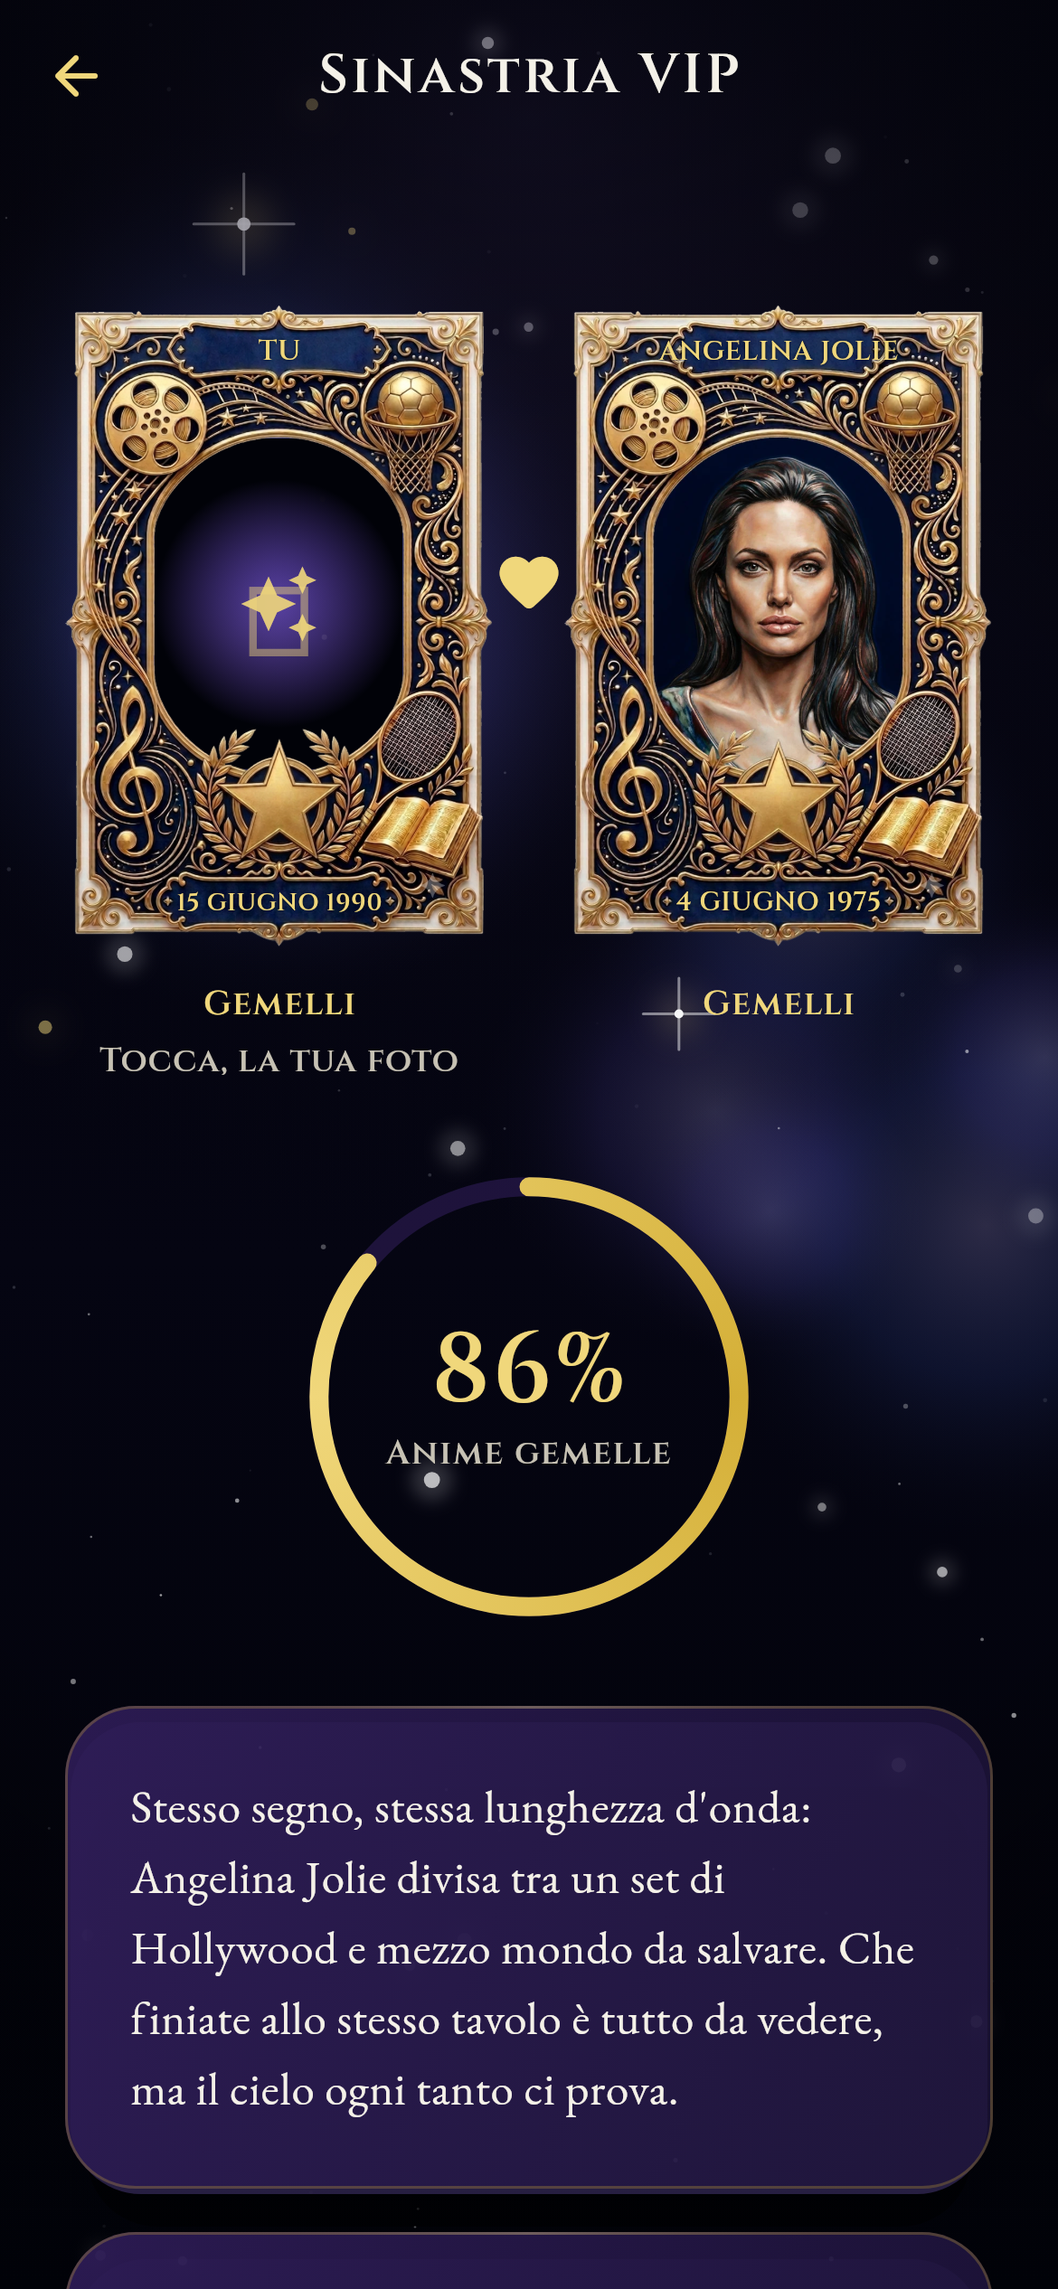
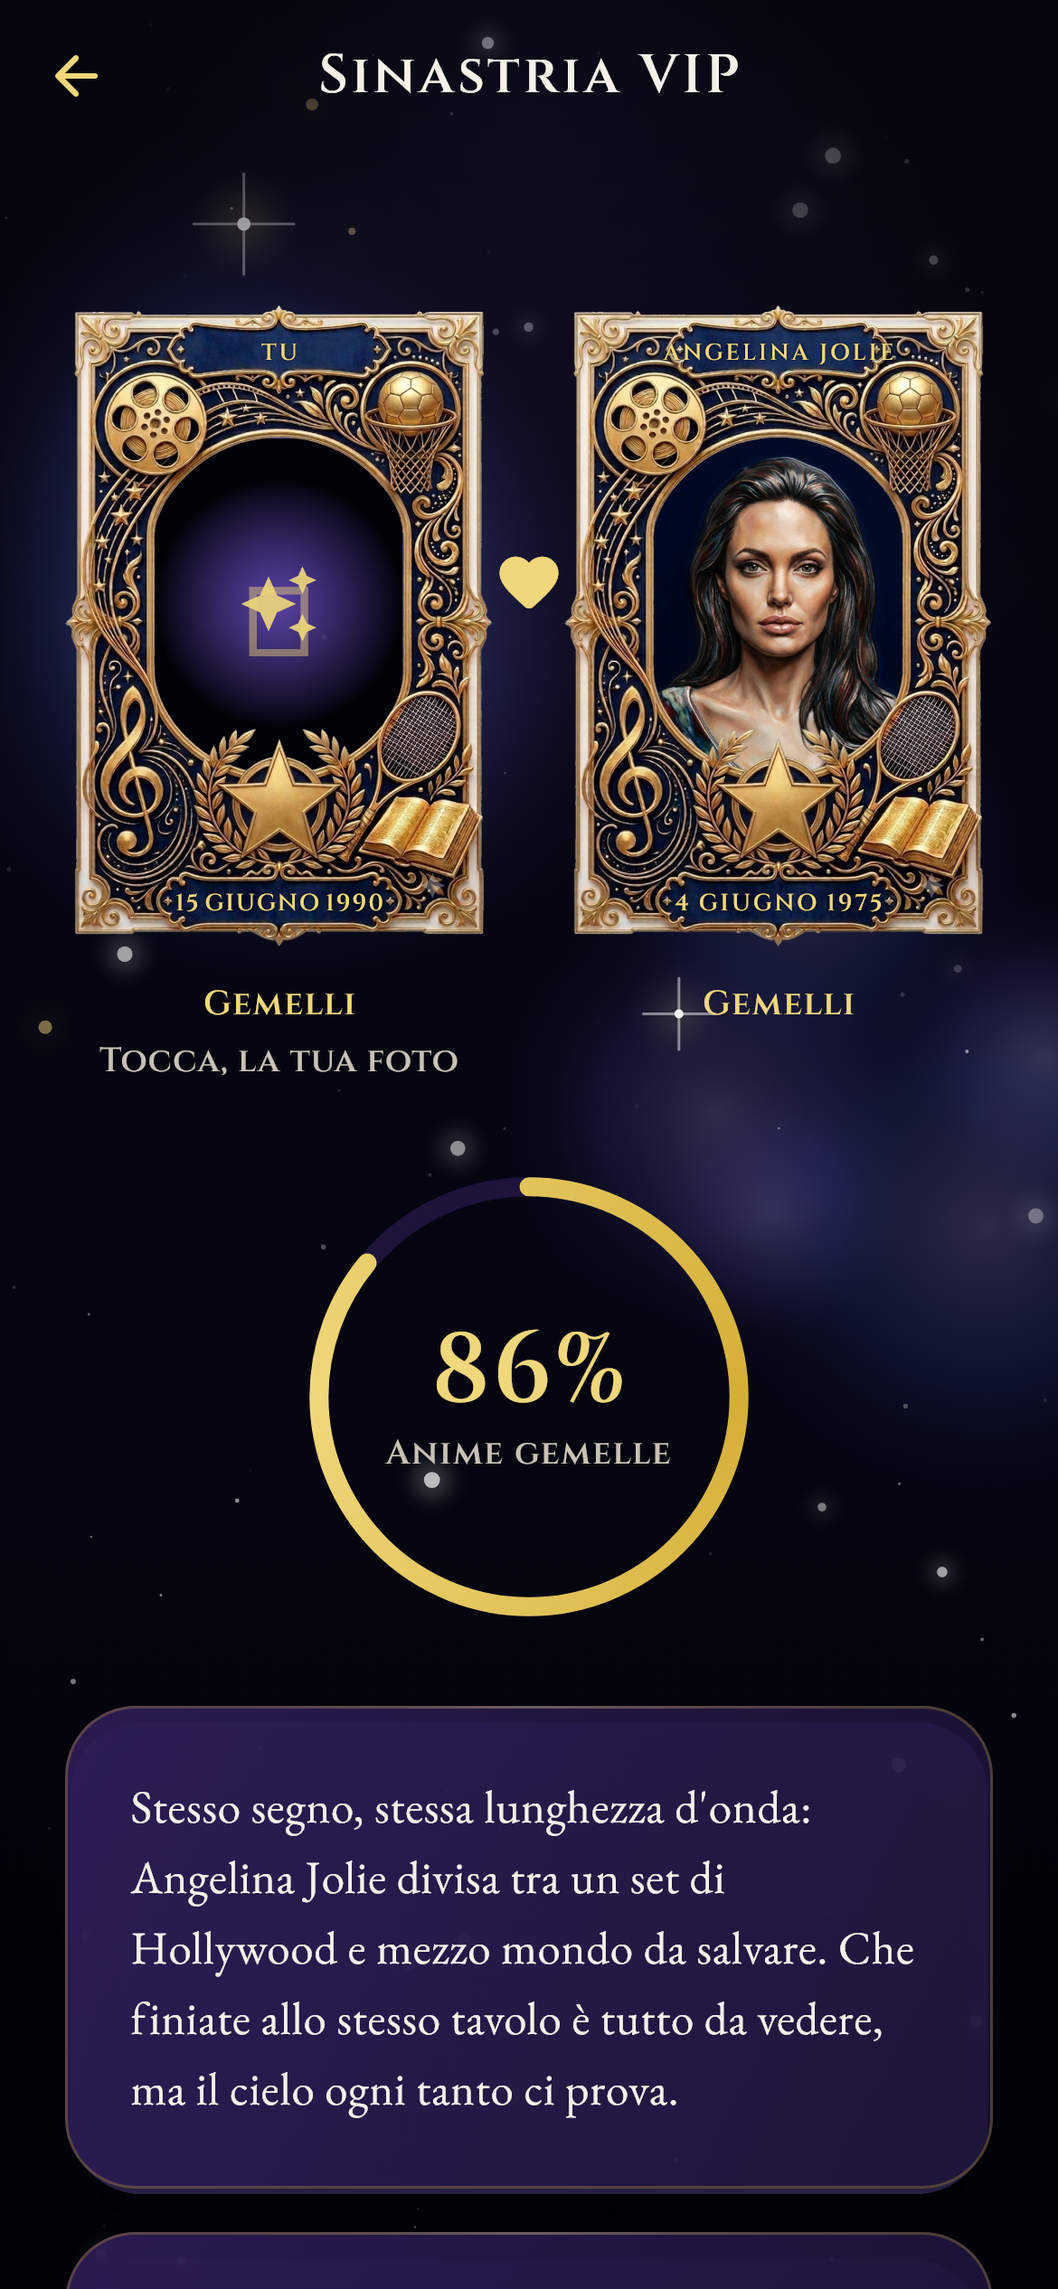
feat: testo dei cartigli VIP adattato alla banda con scala progressiva, sempre su una riga

diff --git a/lib/design_system/components/vip_frame.dart b/lib/design_system/components/vip_frame.dart
@@ -26,11 +26,12 @@ class VipFrame {
   /// normalizzati sull'alpha della cornice).
   static const Rect window = Rect.fromLTRB(0.2087, 0.2089, 0.7877, 0.7239);
 
-  /// Cartiglio alto, per il nome per esteso.
-  static const Rect cartiglioNome = Rect.fromLTRB(0.22, 0.048, 0.78, 0.100);
+  /// Cartiglio alto, per il nome per esteso. Larghezza presa dalla banda blu
+  /// piatta reale (x 0.162..0.821 nell'alpha), con un filo di margine interno.
+  static const Rect cartiglioNome = Rect.fromLTRB(0.185, 0.050, 0.815, 0.099);
 
-  /// Cartiglio basso, per la data di nascita.
-  static const Rect cartiglioData = Rect.fromLTRB(0.26, 0.905, 0.74, 0.958);
+  /// Cartiglio basso, per la data di nascita (banda x 0.249..0.742 reale).
+  static const Rect cartiglioData = Rect.fromLTRB(0.255, 0.906, 0.745, 0.956);
 }
 
 /// Un ritratto dentro la cornice VIP, col nome nel cartiglio alto e la data nel
@@ -107,16 +108,17 @@ class VipFramedPortrait extends StatelessWidget {
             ));
           }
 
-          // I cartigli, scritti a runtime: nome in alto, data in basso.
-          layers.add(_Cartiglio(
-              rect: px(VipFrame.cartiglioNome),
-              text: name,
-              palette: palette));
+          // I cartigli, scritti a runtime: nome in alto, data in basso. Il testo
+          // si adatta alla larghezza del cartiglio, sempre su una riga.
+          layers.add(Positioned.fromRect(
+            rect: px(VipFrame.cartiglioNome),
+            child: CartiglioText(text: name, palette: palette),
+          ));
           if (date.isNotEmpty) {
-            layers.add(_Cartiglio(
-                rect: px(VipFrame.cartiglioData),
-                text: date,
-                palette: palette));
+            layers.add(Positioned.fromRect(
+              rect: px(VipFrame.cartiglioData),
+              child: CartiglioText(text: date, palette: palette),
+            ));
           }
 
           return Stack(fit: StackFit.expand, children: layers);
@@ -126,34 +128,179 @@ class VipFramedPortrait extends StatelessWidget {
   }
 }
 
-class _Cartiglio extends StatelessWidget {
-  const _Cartiglio(
-      {required this.rect, required this.text, required this.palette});
+/// I parametri di adattamento del testo del cartiglio: dimensione del font,
+/// spazio tra le lettere, spazio tra le parole e restringimento orizzontale.
+class CartiglioFit {
+  const CartiglioFit({
+    required this.fontSize,
+    required this.letterSpacing,
+    required this.wordSpacing,
+    required this.scaleX,
+  });
 
-  final Rect rect;
+  final double fontSize;
+  final double letterSpacing;
+  final double wordSpacing;
+  final double scaleX;
+}
+
+/// Limiti della scala progressiva, nell'ordine richiesto.
+const double _lsBase = 1.0; // spazio tra le lettere di partenza
+const double _lsMin = -1.0; // fino a circa -1,0
+const double _xsMin = 0.80; // restringimento orizzontale minimo
+const double _fontFloor = 0.85; // il font puo' calare al massimo del 15 per cento
+const double _heightFactor = 0.86; // quanto il font riempie l'altezza del cartiglio
+double _wsMin(double fs) => -fs * 0.16; // spazio tra le parole minimo
+
+double _measureWidth(String t, TextStyle base, double fs, double ls, double ws) {
+  final tp = TextPainter(
+    text: TextSpan(
+        text: t,
+        style: base.copyWith(fontSize: fs, letterSpacing: ls, wordSpacing: ws)),
+    textDirection: TextDirection.ltr,
+    maxLines: 1,
+  )..layout();
+  return tp.width;
+}
+
+double _measureHeight(String t, TextStyle base, double fs) {
+  final tp = TextPainter(
+    text: TextSpan(text: t, style: base.copyWith(fontSize: fs)),
+    textDirection: TextDirection.ltr,
+    maxLines: 1,
+  )..layout();
+  return tp.height;
+}
+
+// Cerca il valore meno compresso (piu' vicino a hi) che fa stare il testo entro
+// target. Se nemmeno la compressione piena (lo) basta, ritorna lo e si passa
+// allo stadio successivo. La larghezza cresce in modo monotono col parametro.
+double _leastCompression(
+    double Function(double) widthOf, double target, double lo, double hi) {
+  if (widthOf(lo) > target) return lo;
+  if (widthOf(hi) <= target) return hi;
+  for (var i = 0; i < 30; i++) {
+    final mid = (lo + hi) / 2;
+    if (widthOf(mid) <= target) {
+      lo = mid;
+    } else {
+      hi = mid;
+    }
+  }
+  return lo;
+}
+
+/// Calcola come far entrare [text] (gia' maiuscolo) nella larghezza [maxWidth],
+/// alto quanto [maxHeight], su una sola riga. Applica solo lo stretto necessario,
+/// nell'ordine: spazio tra le parole, spazio tra le lettere, larghezza dei
+/// caratteri, e solo come estremo la dimensione del font (fino al 15 per cento).
+CartiglioFit resolveCartiglioFit({
+  required String text,
+  required TextStyle base,
+  required double maxWidth,
+  required double maxHeight,
+}) {
+  // Font di partenza: riempie l'altezza del cartiglio.
+  const probe = 100.0;
+  final probeHeight = _measureHeight(text, base, probe);
+  final baseFont = probeHeight <= 0
+      ? maxHeight
+      : probe * (maxHeight * _heightFactor) / probeHeight;
+
+  var fs = baseFont;
+  var ls = _lsBase;
+  var ws = 0.0;
+  var xs = 1.0;
+
+  double widthNow() => _measureWidth(text, base, fs, ls, ws);
+  final hasSpace = text.contains(' ');
+
+  // 1) spazio tra le parole.
+  if (widthNow() > maxWidth && hasSpace) {
+    ws = _leastCompression(
+        (v) => _measureWidth(text, base, fs, ls, v), maxWidth, _wsMin(fs), 0.0);
+  }
+  // 2) spazio tra le lettere.
+  if (widthNow() > maxWidth) {
+    ls = _leastCompression(
+        (v) => _measureWidth(text, base, fs, v, ws), maxWidth, _lsMin, _lsBase);
+  }
+  // 3) larghezza dei caratteri.
+  final w = widthNow();
+  if (w > maxWidth) {
+    xs = (maxWidth / w).clamp(_xsMin, 1.0);
+  }
+  // 4) come estremo, la dimensione del font, al massimo meno 15 per cento.
+  if (widthNow() * xs > maxWidth) {
+    final floor = baseFont * _fontFloor;
+    fs = _leastCompression(
+        (v) => _measureWidth(text, base, v, ls, ws) * xs, maxWidth, floor, fs);
+  }
+
+  return CartiglioFit(
+      fontSize: fs, letterSpacing: ls, wordSpacing: ws, scaleX: xs);
+}
+
+/// Testo di un cartiglio VIP: maiuscolo, oro, centrato, sempre su una riga.
+///
+/// Non tronca mai, non va a capo, non sborda: adatta il testo alla larghezza del
+/// cartiglio con la scala progressiva di [resolveCartiglioFit], applicando solo
+/// lo stretto necessario. La cornice e il cartiglio restano quelli veri.
+class CartiglioText extends StatelessWidget {
+  const CartiglioText({super.key, required this.text, required this.palette});
+
   final String text;
   final MaestroPalette palette;
 
   @override
   Widget build(BuildContext context) {
-    return Positioned.fromRect(
-      rect: rect,
-      child: Center(
-        child: FittedBox(
-          fit: BoxFit.scaleDown,
-          child: Text(
-            text.toUpperCase(),
-            maxLines: 1,
-            style: TypographyTokens.display(size: 40).copyWith(
-              color: palette.goldSoft,
-              letterSpacing: 1.0,
-              shadows: [
-                Shadow(color: palette.deepest, blurRadius: 2),
-              ],
-            ),
+    final upper = text.toUpperCase();
+    final base = TypographyTokens.display(size: 40).copyWith(
+      color: palette.goldSoft,
+      letterSpacing: _lsBase,
+      shadows: [Shadow(color: palette.deepest, blurRadius: 2)],
+    );
+
+    return LayoutBuilder(
+      builder: (context, constraints) {
+        final fit = resolveCartiglioFit(
+          text: upper,
+          base: base,
+          maxWidth: constraints.maxWidth,
+          maxHeight: constraints.maxHeight,
+        );
+
+        Widget label = Text(
+          upper,
+          maxLines: 1,
+          softWrap: false,
+          overflow: TextOverflow.visible,
+          textAlign: TextAlign.center,
+          style: base.copyWith(
+            fontSize: fit.fontSize,
+            letterSpacing: fit.letterSpacing,
+            wordSpacing: fit.wordSpacing,
           ),
-        ),
-      ),
+        );
+        if (fit.scaleX < 0.999) {
+          label = Transform.scale(
+            scaleX: fit.scaleX,
+            scaleY: 1.0,
+            alignment: Alignment.center,
+            child: label,
+          );
+        }
+        // OverflowBox: il testo puo' essere piu' largo del vincolo interno, tanto
+        // lo comprimiamo noi con lo scaleX; cosi' non va mai a capo ne tronca.
+        return Center(
+          child: OverflowBox(
+            minWidth: 0,
+            maxWidth: double.infinity,
+            alignment: Alignment.center,
+            child: label,
+          ),
+        );
+      },
     );
   }
 }

diff --git a/test/cartiglio_fit_test.dart b/test/cartiglio_fit_test.dart
@@ -1,0 +1,114 @@
+import 'dart:io';
+
+import 'package:esoteric_circle/design_system/components/vip_frame.dart';
+import 'package:esoteric_circle/design_system/tokens/typography_tokens.dart';
+import 'package:flutter/material.dart';
+import 'package:flutter/services.dart';
+import 'package:flutter_test/flutter_test.dart';
+
+/// Il testo dei cartigli VIP entra sempre su una riga, dentro la larghezza del
+/// cartiglio, senza troncare, andare a capo o sbordare. Qui si verifica la scala
+/// progressiva coi casi peggiori, misurando col font reale Cinzel.
+void main() {
+  TestWidgetsFlutterBinding.ensureInitialized();
+
+  setUpAll(() async {
+    // Font reale, cosi' le misure coincidono con quelle a video.
+    final loader = FontLoader('Cinzel');
+    final bytes = File('assets/fonts/Cinzel-variable.ttf').readAsBytesSync();
+    loader.addFont(Future.value(ByteData.view(bytes.buffer)));
+    await loader.load();
+  });
+
+  final base = TypographyTokens.display(size: 40)
+      .copyWith(letterSpacing: 1.0, color: const Color(0xFFFFFFFF));
+
+  double measuredWidth(String t, CartiglioFit fit) {
+    final tp = TextPainter(
+      text: TextSpan(
+        text: t.toUpperCase(),
+        style: base.copyWith(
+          fontSize: fit.fontSize,
+          letterSpacing: fit.letterSpacing,
+          wordSpacing: fit.wordSpacing,
+        ),
+      ),
+      textDirection: TextDirection.ltr,
+      maxLines: 1,
+    )..layout();
+    return tp.width * fit.scaleX;
+  }
+
+  double measuredHeight(String t, CartiglioFit fit) {
+    final tp = TextPainter(
+      text: TextSpan(
+        text: t.toUpperCase(),
+        style: base.copyWith(fontSize: fit.fontSize),
+      ),
+      textDirection: TextDirection.ltr,
+      maxLines: 1,
+    )..layout();
+    return tp.height;
+  }
+
+  void expectFits(String text, double maxWidth, double maxHeight) {
+    final fit = resolveCartiglioFit(
+        text: text.toUpperCase(),
+        base: base,
+        maxWidth: maxWidth,
+        maxHeight: maxHeight);
+    final w = measuredWidth(text, fit);
+    final h = measuredHeight(text, fit);
+    // Entra in larghezza, una riga, con un filo di tolleranza sub-pixel.
+    expect(w, lessThanOrEqualTo(maxWidth + 0.5),
+        reason: '"$text" largo $w oltre $maxWidth (fit: fs ${fit.fontSize.toStringAsFixed(1)} ls ${fit.letterSpacing.toStringAsFixed(2)} ws ${fit.wordSpacing.toStringAsFixed(2)} xs ${fit.scaleX.toStringAsFixed(2)})');
+    expect(h, lessThanOrEqualTo(maxHeight + 0.5),
+        reason: '"$text" alto $h oltre $maxHeight');
+    // I limiti della scala progressiva sono rispettati.
+    expect(fit.scaleX, greaterThanOrEqualTo(0.80 - 1e-6));
+    expect(fit.letterSpacing, greaterThanOrEqualTo(-1.0 - 1e-6));
+    expect(fit.letterSpacing, lessThanOrEqualTo(1.0 + 1e-6));
+  }
+
+  // Dimensioni reali dei due cartigli a una larghezza di polo rappresentativa,
+  // piu' stretta di quella a schermo, per stare dal lato conservativo.
+  const frameWidth = 140.0;
+  const frameHeight = frameWidth / VipFrame.aspect;
+  final nomeW = (VipFrame.cartiglioNome.right - VipFrame.cartiglioNome.left) *
+      frameWidth;
+  final nomeH = (VipFrame.cartiglioNome.bottom - VipFrame.cartiglioNome.top) *
+      frameHeight;
+  final dataW = (VipFrame.cartiglioData.right - VipFrame.cartiglioData.left) *
+      frameWidth;
+  final dataH = (VipFrame.cartiglioData.bottom - VipFrame.cartiglioData.top) *
+      frameHeight;
+
+  group('Nomi nel cartiglio alto, sempre su una riga', () {
+    for (final name in const [
+      'ANGELINA JOLIE',
+      'SCARLETT JOHANSSON',
+      'TIMOTHEE CHALAMET',
+      'TU',
+    ]) {
+      test('"$name" entra', () => expectFits(name, nomeW, nomeH));
+    }
+  });
+
+  group('Date nel cartiglio basso, sempre su una riga', () {
+    for (final date in const [
+      '15 SETTEMBRE 1990',
+      '30 SETTEMBRE 1964',
+      '4 GIUGNO 1975',
+    ]) {
+      test('"$date" entra', () => expectFits(date, dataW, dataH));
+    }
+  });
+
+  test('Un testo corto non viene compresso senza motivo', () {
+    final fit = resolveCartiglioFit(
+        text: 'TU', base: base, maxWidth: nomeW, maxHeight: nomeH);
+    expect(fit.scaleX, 1.0);
+    expect(fit.letterSpacing, 1.0);
+    expect(fit.wordSpacing, 0.0);
+  });
+}

diff --git a/docs/STATO_VIVO.md b/docs/STATO_VIVO.md
@@ -41,7 +41,7 @@ Legenda stato: prodotto (esiste), agganciato (collegato e gira nell'app), verifi
 - Onboarding Il Risveglio: fatto (carta natale ornata, cielo di nascita J2000, cosmo profondo, risonanza, rito del soffio, ponte identita' con NatalFacts, accenti corretti a ce5b75e). Prodotto e agganciato; da riconfermare a video al prossimo checkpoint visivo.
 - Cosmo profondo: fatto. Santuario Il Cerchio: fatto nella messa in scena base. Prodotto e agganciato; da riconfermare a video al prossimo checkpoint visivo.
 - Doni del Giorno: Alba e Soffio validati; Oracolo, Runa, Sogno presenti.
-- Funzioni live nel function_shelf: Sinastria VIP, Oracolo del Giorno, Runa del Tramonto, Meditazione. Non ancora live: Stesa a Tre Carte, Test Archetipo, Costellazione del Viso. La Sinastria VIP e' stata rifatta a video: cosmo profondo di sfondo pulito (senza le figure di costellazione a linee, che finivano coperte dalle cornici: restano stelle, nebulose, parallasse e stella cadente, il cosmo con `showZodiac` a falso), i due volti nella cornice VIP vera col cuore, cerchio grande con percentuale animata ed etichetta di fascia, responso composto dal Corpus `docs/corpus/sinastria_testi.md` (relazione tra i segni piu' carattere del VIP per stem piu' chiusura ironica) prima delle barre, quattro barre deterministiche per coppia (amore, intesa mentale, scintille, incontro volutamente minimo 0,2..4 per cento con micro battuta), il cerchio come sintesi pesata delle prime tre. La cornice e' quella definitiva e curata: il ritratto VIP mostra la sua cornice originale gia' incisa, senza aggiunte; la foto dell'utente entra nella STESSA cornice, bundlata come `assets/vip_cornice.webp` (ricavata da `pilot-references/Cornice-Vip-Test-2.png`, la stessa che `vip.py` compone dietro i ritratti) con finestra e cartigli combacianti, misure in `lib/design_system/components/vip_frame.dart`. Nessun arco generico inventato: la vecchia `vip_arch_frame.dart` e' stata rimossa. I cartigli vuoti sono riempiti a runtime, nome per esteso in alto e data di nascita in basso, per il VIP i suoi e per l'utente i suoi. Foto utente opzionale con consenso esplicito a fotocamera o galleria (image_picker, stringhe permesso in Info.plist), tenuta solo in memoria, filtro dorato e cosmico, mai caricata. Tasto Condividi che genera la card oro e blu di Medora come PNG e apre il foglio social (share_plus). Ritratti ingranditi. Accenti veri ovunque nei testi a video, con un test dedicato (`test/sinastria_accents_test.dart`) che cade se una stringa a video usa un apostrofo al posto dell'accento. Logica in `lib/core/synastry/synastry_report.dart`, card in `lib/features/synastry/sinastria_share_card.dart`. La vecchia classe `Synastry` per elemento e' stata sostituita da `SynastryReport`. La fonte macchina di questo stato e' `docs/stato_funzioni.json`, allineata al codice da `test/stato_funzioni_test.dart` nel verde della CI: se il manifest e `lib/core/santuario/function_shelf.dart` divergono, la spunta verde cade.
+- Funzioni live nel function_shelf: Sinastria VIP, Oracolo del Giorno, Runa del Tramonto, Meditazione. Non ancora live: Stesa a Tre Carte, Test Archetipo, Costellazione del Viso. La Sinastria VIP e' stata rifatta a video: cosmo profondo di sfondo pulito (senza le figure di costellazione a linee, che finivano coperte dalle cornici: restano stelle, nebulose, parallasse e stella cadente, il cosmo con `showZodiac` a falso), i due volti nella cornice VIP vera col cuore, cerchio grande con percentuale animata ed etichetta di fascia, responso composto dal Corpus `docs/corpus/sinastria_testi.md` (relazione tra i segni piu' carattere del VIP per stem piu' chiusura ironica) prima delle barre, quattro barre deterministiche per coppia (amore, intesa mentale, scintille, incontro volutamente minimo 0,2..4 per cento con micro battuta), il cerchio come sintesi pesata delle prime tre. La cornice e' quella definitiva e curata: il ritratto VIP mostra la sua cornice originale gia' incisa, senza aggiunte; la foto dell'utente entra nella STESSA cornice, bundlata come `assets/vip_cornice.webp` (ricavata da `pilot-references/Cornice-Vip-Test-2.png`, la stessa che `vip.py` compone dietro i ritratti) con finestra e cartigli combacianti, misure in `lib/design_system/components/vip_frame.dart`. Nessun arco generico inventato: la vecchia `vip_arch_frame.dart` e' stata rimossa. I cartigli vuoti sono riempiti a runtime, nome per esteso in alto e data di nascita in basso, per il VIP i suoi e per l'utente i suoi. Il testo del cartiglio non tronca, non va a capo e non sborda mai: il widget `CartiglioText` in `vip_frame.dart` misura col `TextPainter` e adatta il testo alla larghezza della banda con una scala progressiva, nell'ordine spazio tra le parole, spazio tra le lettere (fino a circa -1), restringimento orizzontale (scala X fino a 0,80) e solo come estremo la dimensione del font (al massimo meno 15 per cento), sempre su una riga, centrato, maiuscolo e oro. I casi peggiori (SCARLETT JOHANSSON, TIMOTHEE CHALAMET, date come 15 settembre 1990) sono coperti da `test/cartiglio_fit_test.dart`. Foto utente opzionale con consenso esplicito a fotocamera o galleria (image_picker, stringhe permesso in Info.plist), tenuta solo in memoria, filtro dorato e cosmico, mai caricata. Tasto Condividi che genera la card oro e blu di Medora come PNG e apre il foglio social (share_plus). Ritratti ingranditi. Accenti veri ovunque nei testi a video, con un test dedicato (`test/sinastria_accents_test.dart`) che cade se una stringa a video usa un apostrofo al posto dell'accento. Logica in `lib/core/synastry/synastry_report.dart`, card in `lib/features/synastry/sinastria_share_card.dart`. La vecchia classe `Synastry` per elemento e' stata sostituita da `SynastryReport`. La fonte macchina di questo stato e' `docs/stato_funzioni.json`, allineata al codice da `test/stato_funzioni_test.dart` nel verde della CI: se il manifest e `lib/core/santuario/function_shelf.dart` divergono, la spunta verde cade.
 - Backend carta natale FreeAstroAPI: callable Firebase natalChart costruita (162b94b), con base URL gia' corretto a `https://api.freeastroapi.com` (340fd4a). Non ancora deployata: secret in Secret Manager, App Check e `firebase deploy --only functions` restano da fare a mano dal PC di Mauro.
 - Contenuti testuali: undici Corpus scritti nel Project, circa 620 voci verificate sulle tradizioni. Cinque Corpus ora modellati e in `docs/corpus/` e legati al codice (tarocchi con dritto e rovescio, rune con dritto e ombra, animali, cristalli, VIP). Manca la modellazione del dettaglio per singolo angelo.
 
